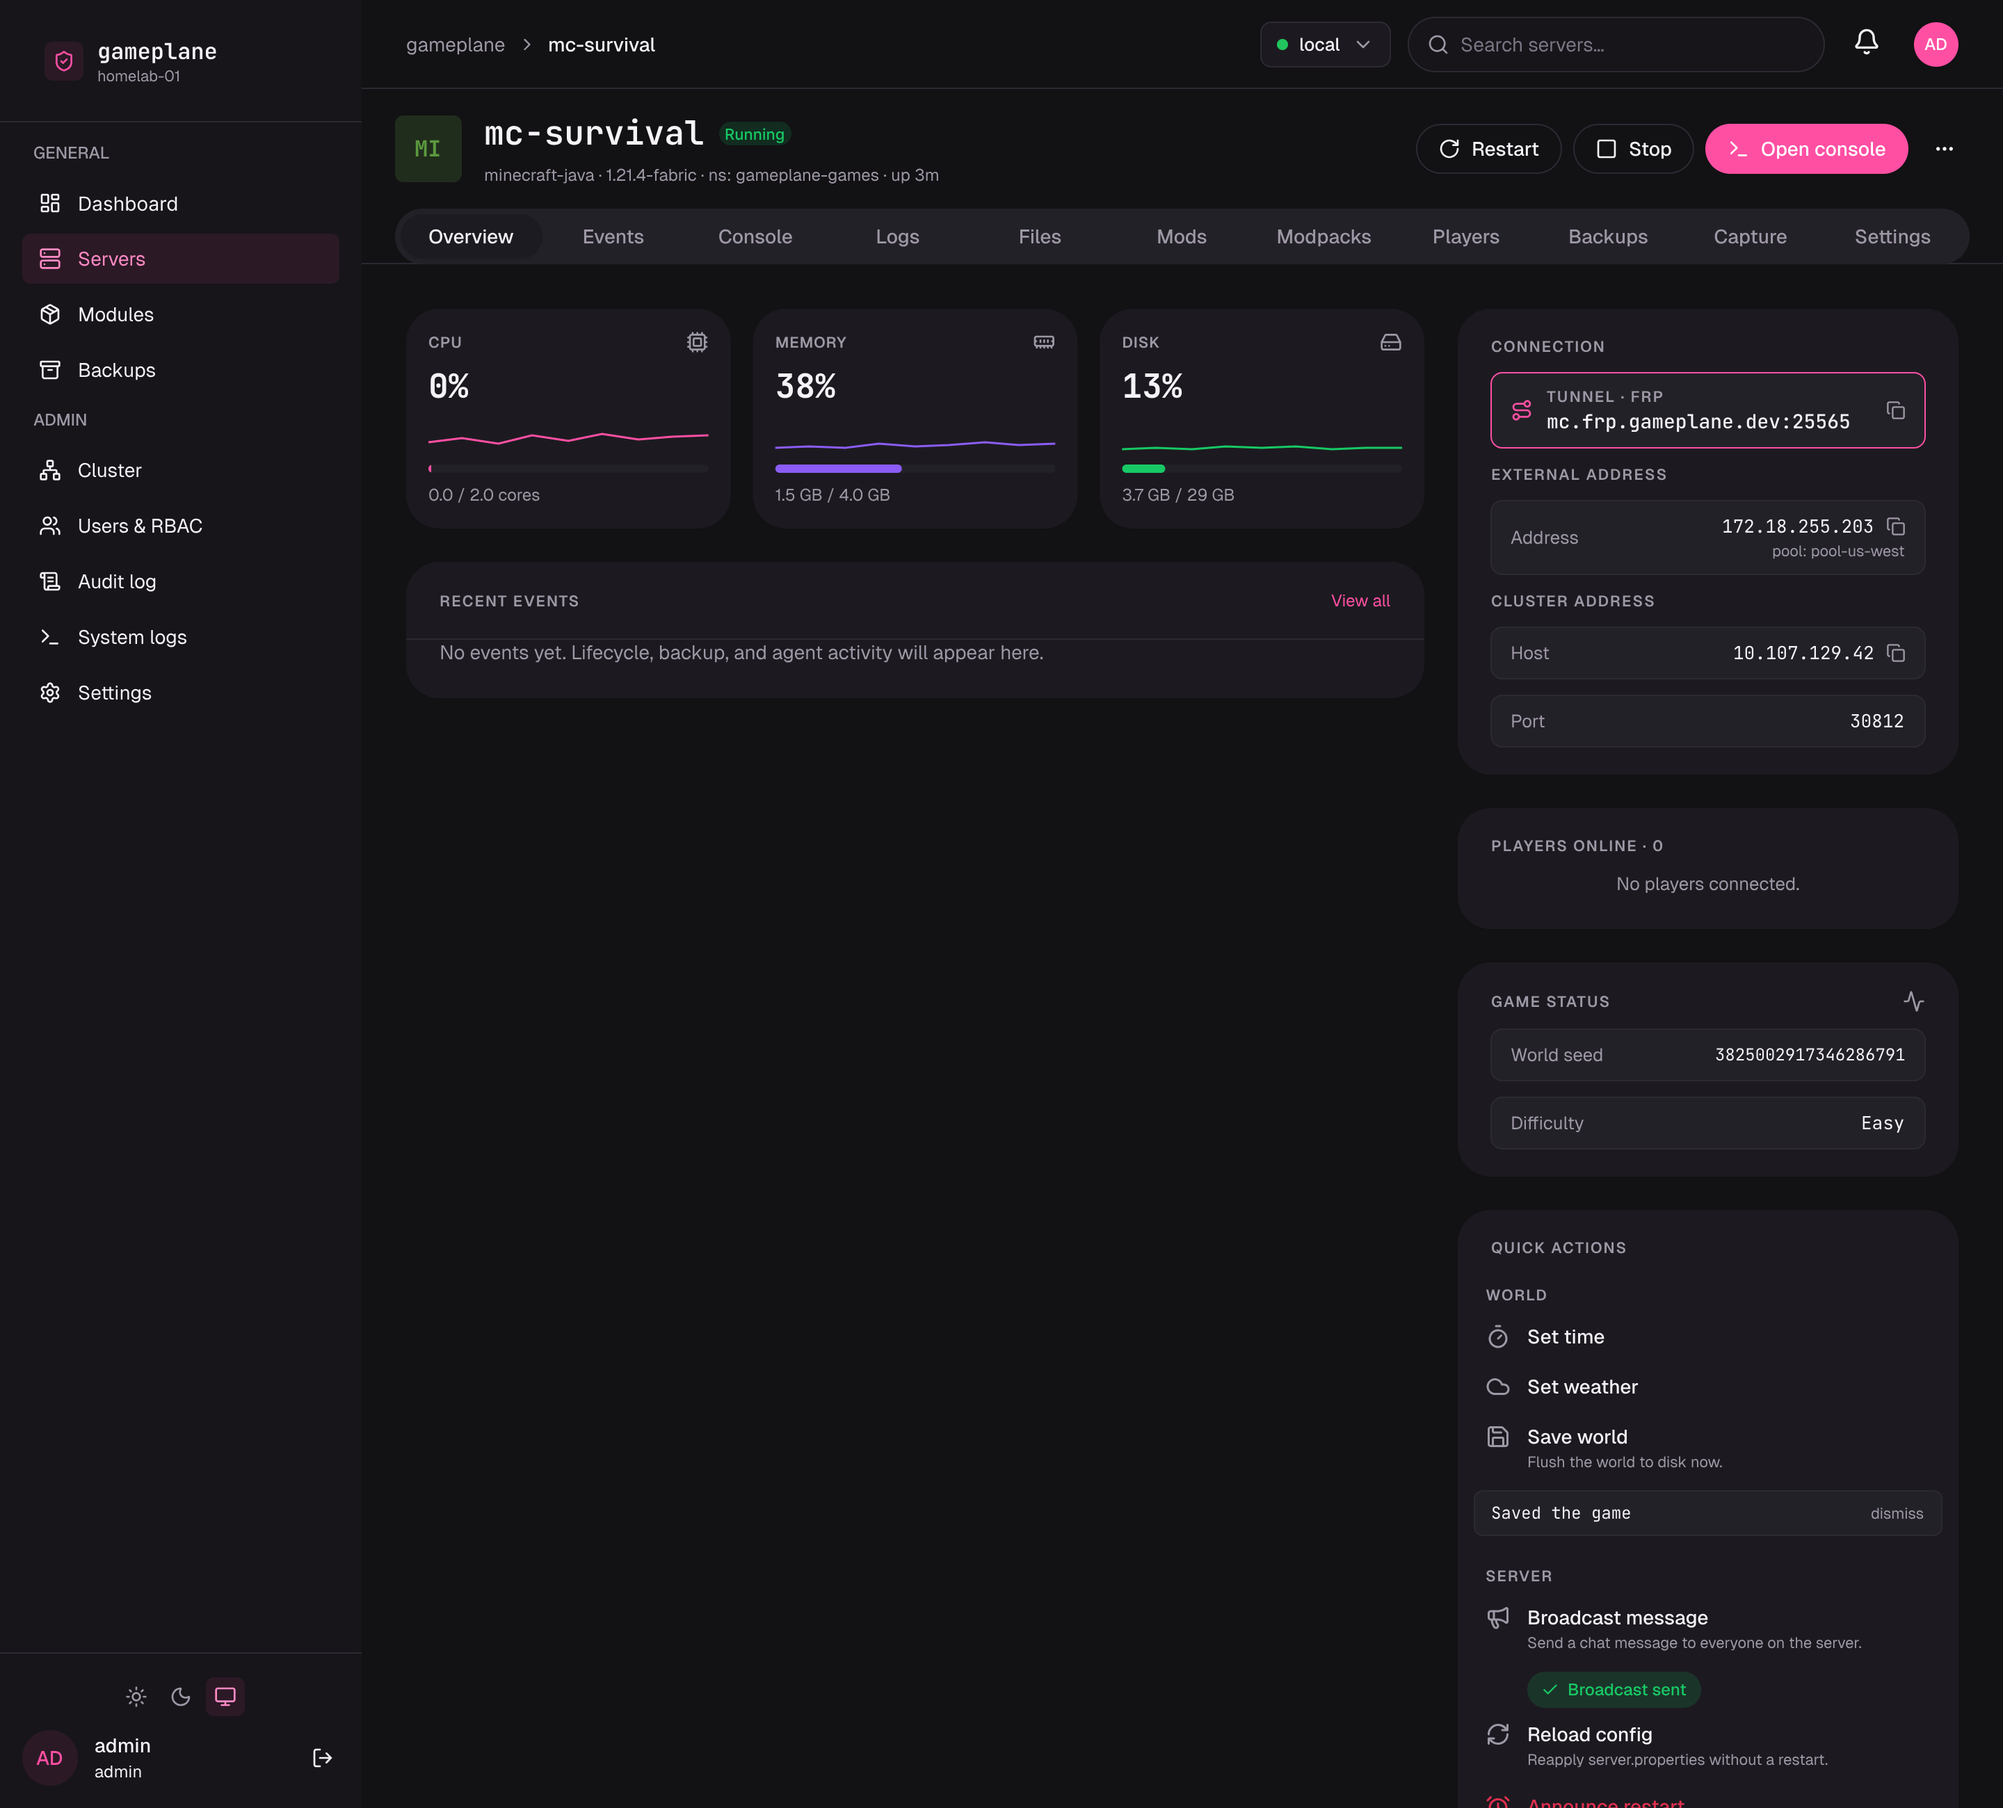
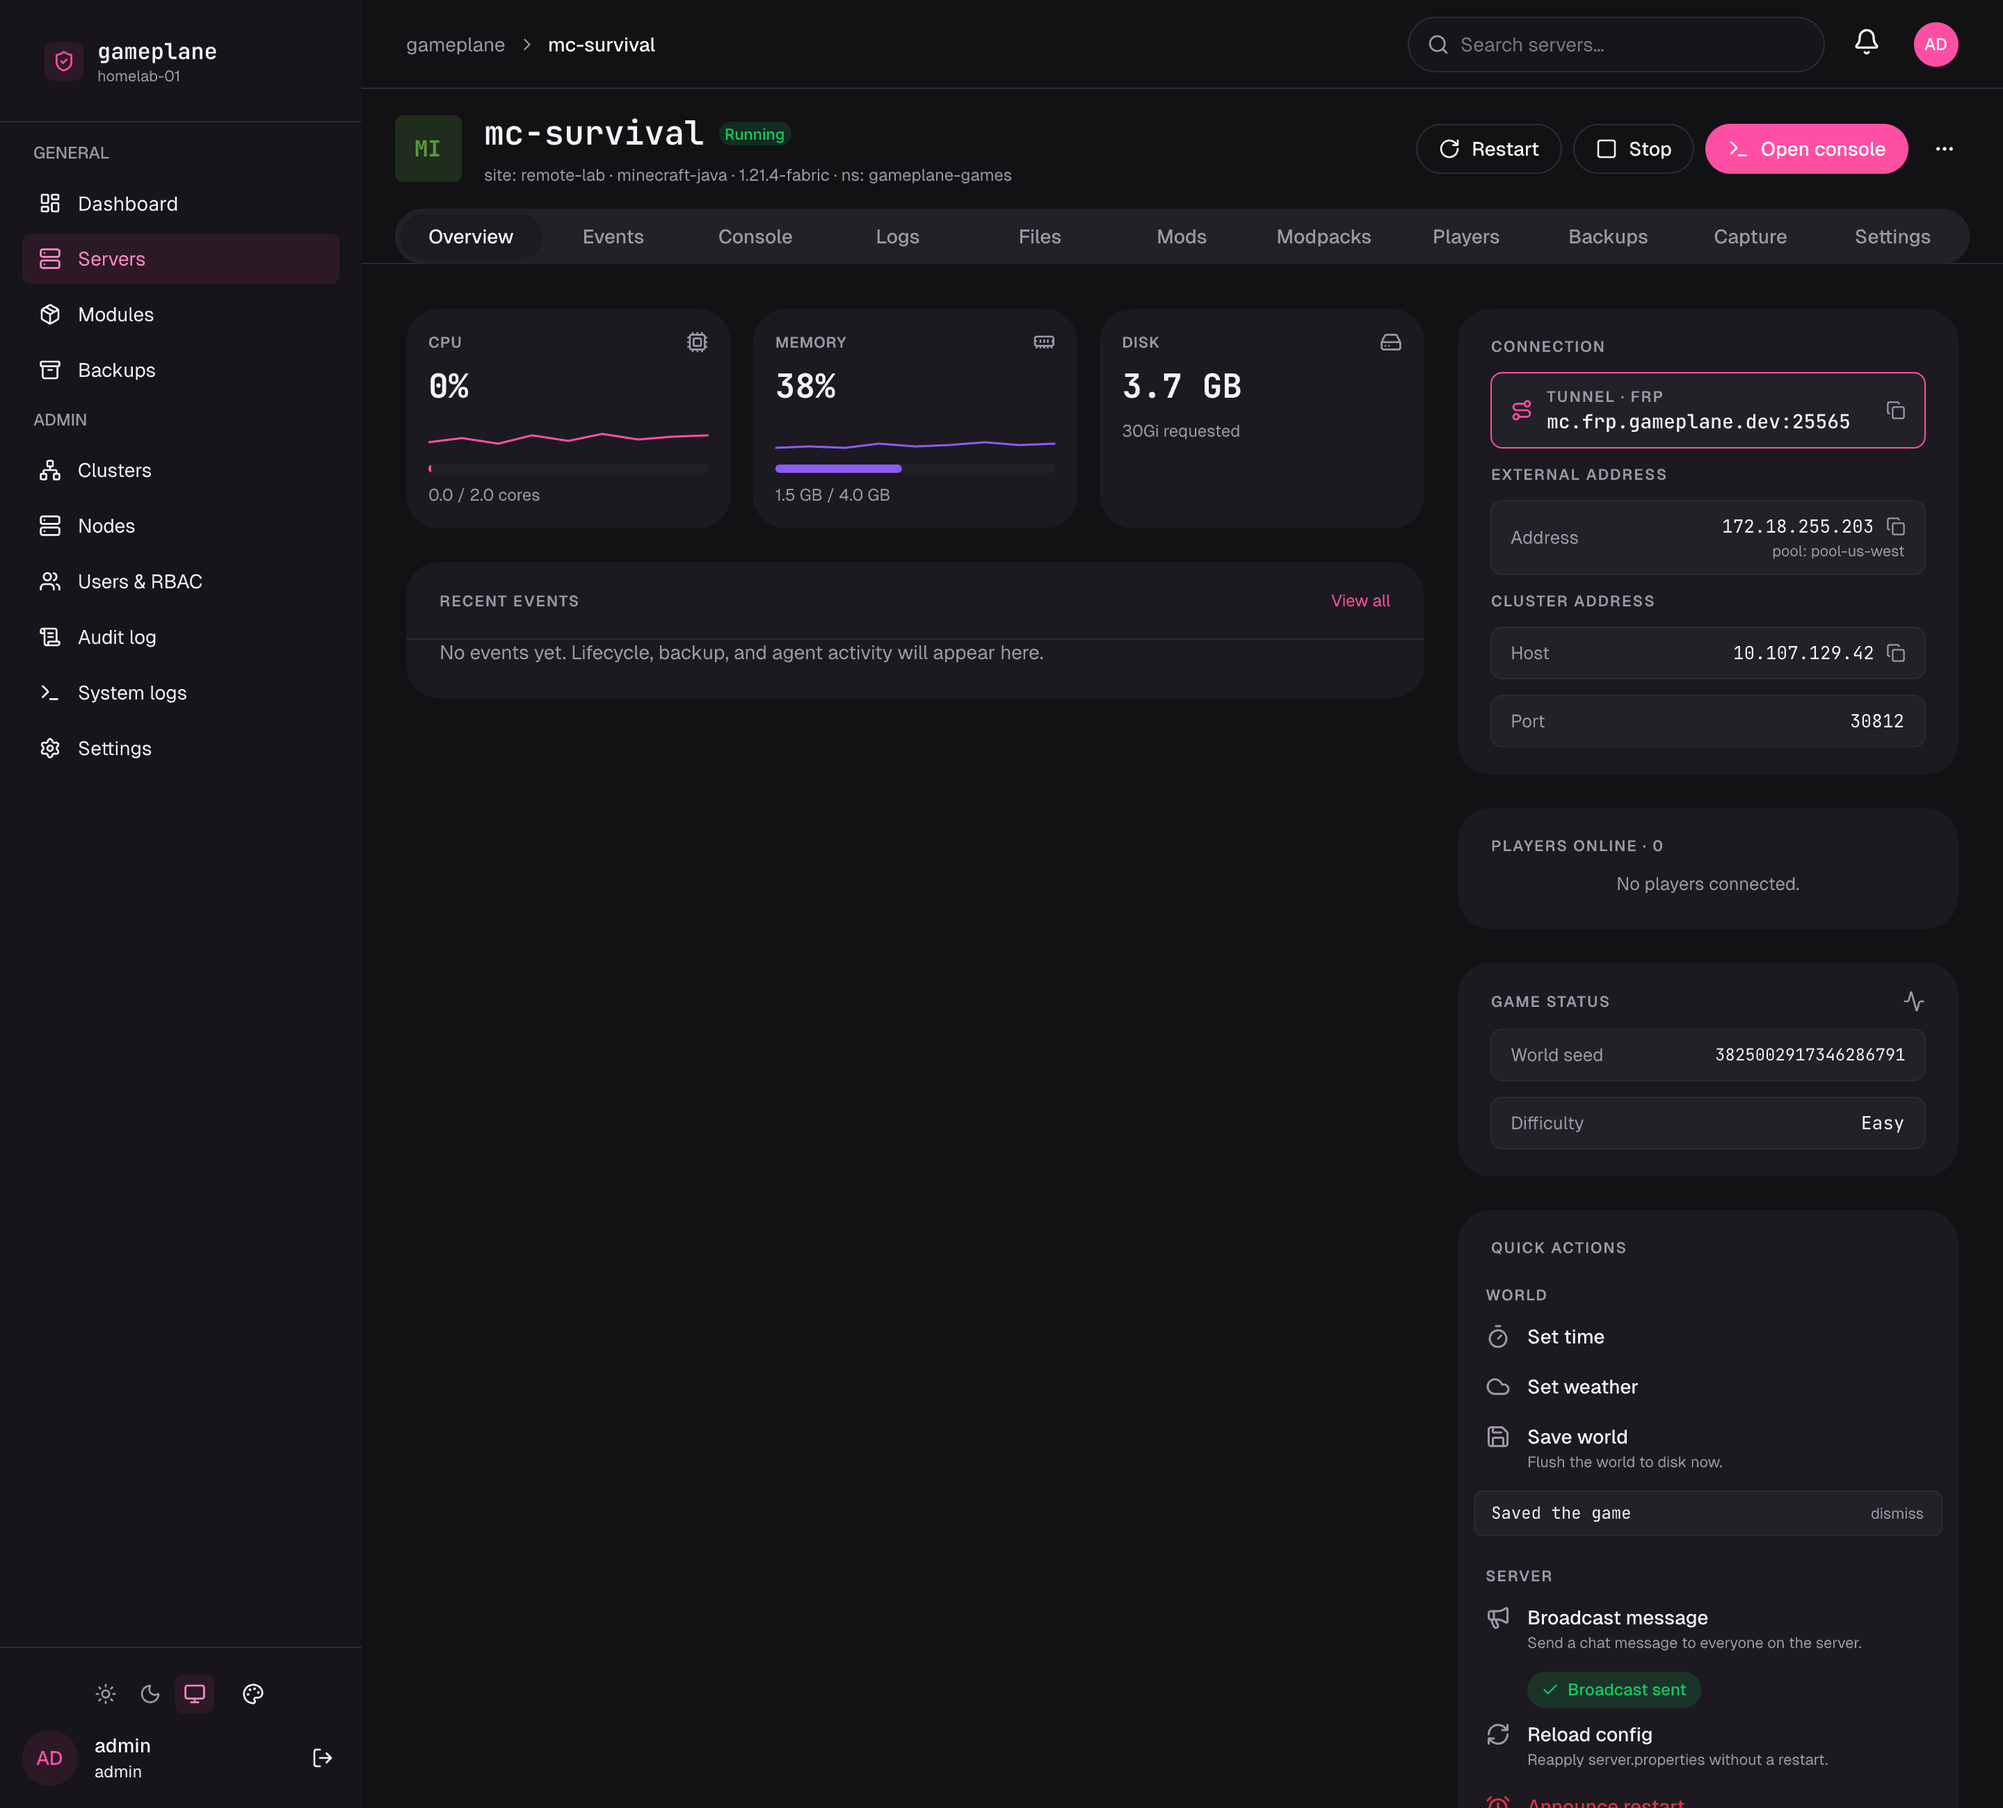
docs(design): distinguish measured storage from requested capacity

Changed region(s): [[0.0312, 0.2804, 0.0938, 0.405], [0.5625, 0.1869, 0.625, 0.2804], [0.375, 0.0935, 0.4688, 0.1246]]

diff --git a/assets/design-export/MANIFEST.md b/assets/design-export/MANIFEST.md
@@ -2874,3 +2874,6 @@ Nodes now follows the Backups toolbar: a plain search input, capped at 320px on 
 
 All seven roots have JSON from Pencil `Get` and 2× PNG from `Export`. Toolbar, popover, desktop, fixed-cluster and mobile layouts were inspected using `TakeScreenshot`; the full screens retain their previous dimensions and content. JSON exports retain component references without elided children or editing placeholders. No React source, tests or lint suites were changed or run for this design update.
 
+## Server volume measurements
+
+The running Overview (`EZFW0`) shows measured data usage alongside the requested PVC capacity when a filesystem total is unavailable. The sleeping Overview (`TE2jI`) shows the request and a dash while usage is unknown.
